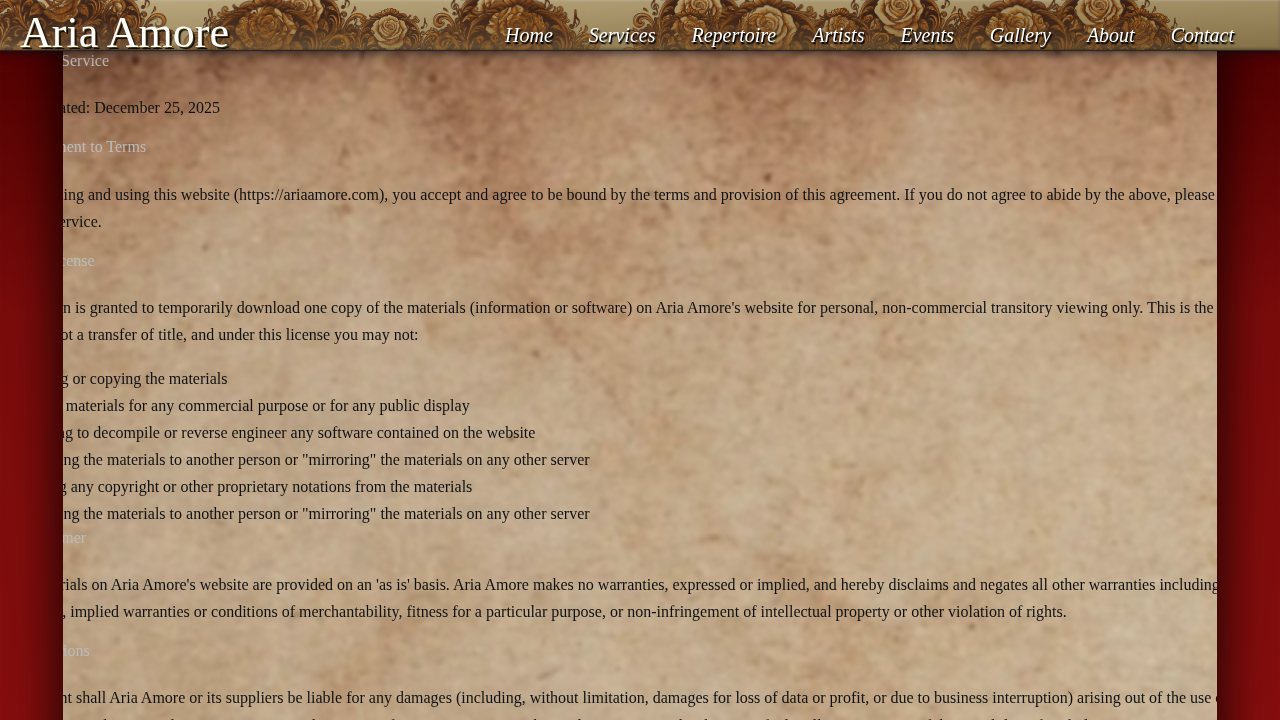
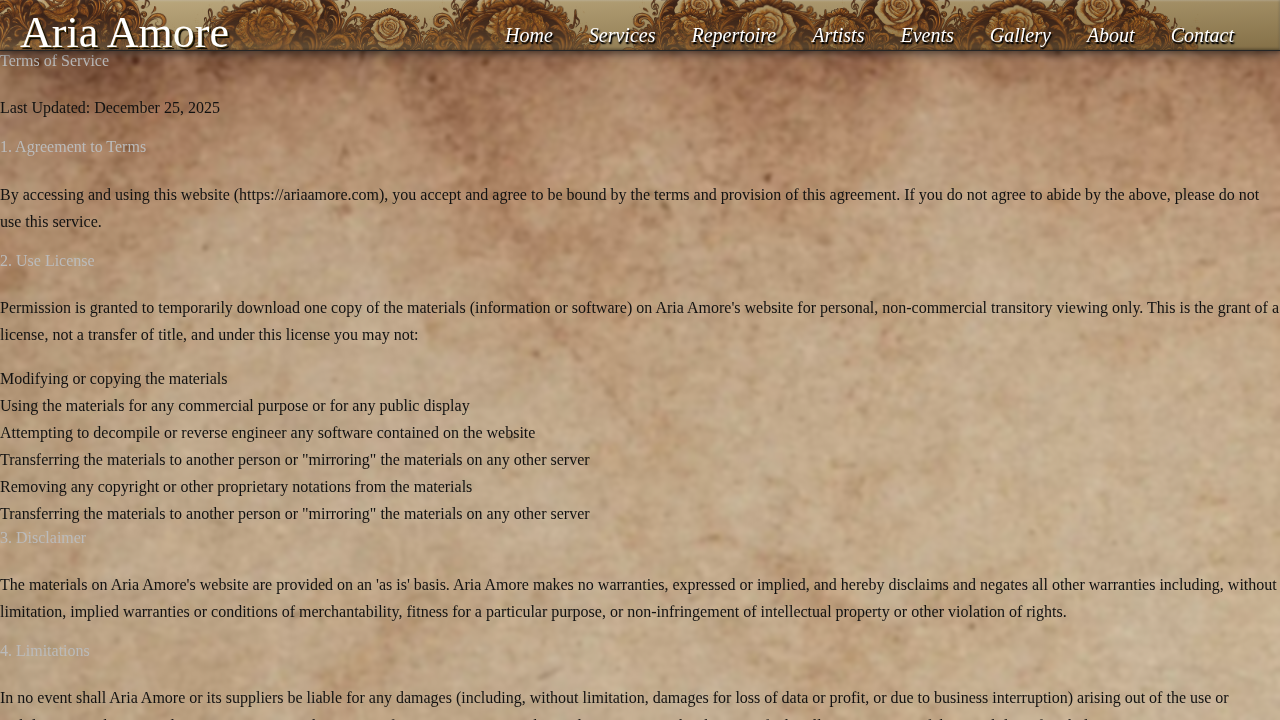
Fix screenshots to show pages after curtain animation completes
- Created automated screenshot capture script using Playwright
- Script waits 3 seconds for curtain animation to complete
- Captured all 11 main pages + 2 homepage sections (13 total)
- Updated all screenshot files to show full page content
- Updated documentation with curtain animation timing details
- Added npm script for easy screenshot capture
- Removed duplicate 05-contact-page.png file

Changed region(s): [[0.9375, 0.0611, 1.0, 1.0], [0.0, 0.0611, 0.0625, 1.0]]

diff --git a/scripts/capture-screenshots.js b/scripts/capture-screenshots.js
@@ -1,0 +1,173 @@
+#!/usr/bin/env node
+
+/**
+ * Screenshot Capture Script
+ * 
+ * Captures screenshots of all pages after curtain animation completes.
+ * 
+ * Usage:
+ *   node scripts/capture-screenshots.js [server-url]
+ * 
+ * Example:
+ *   node scripts/capture-screenshots.js http://localhost:8000
+ */
+
+const { chromium } = require('playwright');
+const path = require('path');
+const fs = require('fs');
+
+// Configuration
+const SERVER_URL = process.argv[2] || 'http://localhost:8000';
+const SCREENSHOT_DIR = path.join(__dirname, '../docs/screenshots');
+const VIEWPORT = { width: 1280, height: 720 };
+
+// Pages to screenshot
+const PAGES = [
+  { url: '/index.html', filename: '01-homepage-hero.png', description: 'Homepage Hero', scrollY: 0 },
+  { url: '/index.html', filename: '01-homepage-packages.png', description: 'Homepage Packages Section', scrollY: 800 },
+  { url: '/about.html', filename: '02-about-page.png', description: 'About Page' },
+  { url: '/services.html', filename: '03-services-page.png', description: 'Services Page' },
+  { url: '/artists.html', filename: '04-artists-page.png', description: 'Artists Page' },
+  { url: '/repertoire.html', filename: '05-repertoire-page.png', description: 'Repertoire Page' },
+  { url: '/events.html', filename: '06-events-page.png', description: 'Events Page' },
+  { url: '/gallery.html', filename: '07-gallery-page.png', description: 'Gallery Page' },
+  { url: '/contact.html', filename: '08-contact-page.png', description: 'Contact Page' },
+  { url: '/privacy-policy.html', filename: '09-privacy-policy-page.png', description: 'Privacy Policy' },
+  { url: '/terms-of-service.html', filename: '10-terms-of-service-page.png', description: 'Terms of Service' }
+];
+
+// Homepage sections for sections/ subfolder
+const HOMEPAGE_SECTIONS = [
+  { filename: 'sections/homepage-section-1-hero.png', description: 'Homepage Section 1 - Hero', scrollY: 0 },
+  { filename: 'sections/homepage-section-2-packages.png', description: 'Homepage Section 2 - Packages', scrollY: 800 }
+];
+
+async function captureScreenshots() {
+  console.log('📸 Aria Amore Screenshot Capture');
+  console.log('================================\n');
+  console.log(`Server URL: ${SERVER_URL}`);
+  console.log(`Viewport: ${VIEWPORT.width}x${VIEWPORT.height}`);
+  console.log(`Output Directory: ${SCREENSHOT_DIR}\n`);
+
+  // Ensure screenshot directories exist
+  if (!fs.existsSync(SCREENSHOT_DIR)) {
+    console.log(`Creating screenshot directory: ${SCREENSHOT_DIR}`);
+    fs.mkdirSync(SCREENSHOT_DIR, { recursive: true });
+  }
+  
+  const sectionsDir = path.join(SCREENSHOT_DIR, 'sections');
+  if (!fs.existsSync(sectionsDir)) {
+    console.log(`Creating sections directory: ${sectionsDir}`);
+    fs.mkdirSync(sectionsDir, { recursive: true });
+  }
+
+  // Launch browser
+  console.log('→ Launching browser...');
+  const browser = await chromium.launch({
+    headless: true
+  });
+
+  try {
+    const context = await browser.newContext({
+      viewport: VIEWPORT,
+      deviceScaleFactor: 1
+    });
+
+    const page = await context.newPage();
+
+    // Helper function to capture a screenshot with optional scroll
+    async function capturePageScreenshot(url, outputPath, description, scrollY = 0) {
+      console.log(`   URL: ${url}`);
+      if (scrollY > 0) {
+        console.log(`   📜 Scroll position: ${scrollY}px`);
+      }
+
+      try {
+        // Navigate to page
+        await page.goto(url, { 
+          waitUntil: 'networkidle',
+          timeout: 30000
+        });
+
+        // CRITICAL: Wait for curtain animation to complete
+        console.log('   ⏳ Waiting for curtain animation to complete (3 seconds)...');
+        await page.waitForTimeout(3000);
+
+        // Additional check: ensure curtain wrapper has 'open' class
+        await page.waitForSelector('.curtain-wrapper.open', { 
+          timeout: 5000,
+          state: 'attached'
+        }).catch(() => {
+          console.log('   ⚠  Curtain wrapper not found or not opened (may not have curtain animation)');
+        });
+
+        // Scroll if needed
+        if (scrollY > 0) {
+          await page.evaluate((y) => window.scrollTo(0, y), scrollY);
+          await page.waitForTimeout(500); // Wait for scroll to complete
+        }
+
+        // Take screenshot
+        console.log('   📷 Capturing screenshot...');
+        await page.screenshot({
+          path: outputPath,
+          type: 'png',
+          fullPage: false  // Viewport only for consistency
+        });
+
+        console.log(`   ✓ Saved: ${path.basename(outputPath)}`);
+        return true;
+
+      } catch (error) {
+        console.error(`   ❌ Error capturing ${description}:`, error.message);
+        return false;
+      }
+    }
+
+    // Capture main pages
+    for (let i = 0; i < PAGES.length; i++) {
+      const pageInfo = PAGES[i];
+      const url = `${SERVER_URL}${pageInfo.url}`;
+      const outputPath = path.join(SCREENSHOT_DIR, pageInfo.filename);
+
+      console.log(`\n[${i + 1}/${PAGES.length}] ${pageInfo.description}`);
+      await capturePageScreenshot(url, outputPath, pageInfo.description, pageInfo.scrollY || 0);
+    }
+
+    // Capture homepage sections
+    console.log('\n\n=== Homepage Sections ===\n');
+    for (let i = 0; i < HOMEPAGE_SECTIONS.length; i++) {
+      const sectionInfo = HOMEPAGE_SECTIONS[i];
+      const url = `${SERVER_URL}/index.html`;
+      const outputPath = path.join(SCREENSHOT_DIR, sectionInfo.filename);
+
+      console.log(`\n[Section ${i + 1}/${HOMEPAGE_SECTIONS.length}] ${sectionInfo.description}`);
+      await capturePageScreenshot(url, outputPath, sectionInfo.description, sectionInfo.scrollY);
+    }
+
+    await context.close();
+
+  } catch (error) {
+    console.error('\n❌ Fatal error:', error);
+    process.exit(1);
+  } finally {
+    await browser.close();
+  }
+
+  console.log('\n================================');
+  console.log('✅ Screenshot capture complete!');
+  console.log(`\nScreenshots saved to: ${SCREENSHOT_DIR}`);
+  console.log(`Main pages: ${PAGES.length}`);
+  console.log(`Homepage sections: ${HOMEPAGE_SECTIONS.length}`);
+  console.log(`Total: ${PAGES.length + HOMEPAGE_SECTIONS.length} screenshots\n`);
+}
+
+// Main execution
+(async () => {
+  try {
+    await captureScreenshots();
+  } catch (error) {
+    console.error('Error:', error);
+    process.exit(1);
+  }
+})();

diff --git a/docs/screenshots/README.md b/docs/screenshots/README.md
@@ -1,10 +1,16 @@
 # Aria Amore Website Screenshots
 
-This directory contains comprehensive screenshots of all pages in the Aria Amore website. Each screenshot captures the viewport to ensure proper rendering of backgrounds, styles, and all visual elements.
+This directory contains comprehensive screenshots of all pages in the Aria Amore website. Each screenshot is captured **after the curtain opening animation completes** to ensure all page content and features are fully visible.
 
 ## Screenshot Approach
 
-Due to full-page screenshot limitations with complex backgrounds and styles, these screenshots use viewport captures that show the actual rendered appearance of each page as users would see it.
+**Important:** Screenshots are taken 3 seconds after page load to allow the curtain opening animation to complete (animation duration: 2 seconds). This ensures that:
+- All page content is fully visible
+- No red curtain overlay obscures the page
+- All major features are properly showcased
+- Users see the actual rendered page as intended
+
+Due to full-page screenshot limitations with complex backgrounds and styles, these screenshots use viewport captures (1280x720) that show the actual rendered appearance of each page as users would see it.
 
 ## Main Pages
 
@@ -15,7 +21,8 @@ Due to full-page screenshot limitations with complex backgrounds and styles, the
   - ![Homepage Hero](https://github.com/user-attachments/assets/9715a2b3-45b4-41ca-a9ad-9d28950d2774)
 
 - **01-homepage-packages.png** - Package comparison section
-  - Shows: Same hero view (viewport capture)
+  - Shows: Packages section (scrolled 800px down from hero)
+  - Features: Service package options and booking information
   - ![Homepage Packages](https://github.com/user-attachments/assets/c6a7cd35-d91b-4b78-ad6c-03e5e86b705b)
 
 ### 2. About Page (about.html)
@@ -77,9 +84,10 @@ The following pages were intentionally **not** screenshotted per requirements:
 ## Screenshot Details
 
 - **Format**: PNG
-- **Capture Method**: Viewport screenshots (not full-page) to ensure proper background rendering
+- **Capture Method**: Viewport screenshots (1280x720) taken **after curtain animation completes**
 - **Browser**: Chromium (via Playwright)
-- **Viewport Size**: Default desktop viewport (1280x720)
+- **Viewport Size**: 1280x720 (standard desktop viewport)
+- **Animation Wait**: 3 seconds after page load to ensure curtain has fully opened
 - **Date Captured**: January 29, 2026
 
 ## Technical Notes
@@ -109,26 +117,39 @@ These screenshots can be used for:
 
 ## Updating Screenshots
 
-### ⚠ IMPORTANT: Server Must Be Running
+### Automated Script (Recommended)
 
-Screenshots will **only render correctly** if the PHP development server is running. The site uses symlinks (`public/assets -> ../assets`) which require an active server to resolve.
-
-### Quick Start (Recommended)
+Use the Node.js script with Playwright to automatically capture all screenshots after curtain animation:
 
 ```bash
-# Use the screenshot capture script (handles server automatically)
-./scripts/capture-screenshots.sh
+# 1. Start the PHP development server
+cd /home/runner/work/Aria-Amore-Website-Core/Aria-Amore-Website-Core
+php -S localhost:8000 -t public &
+
+# 2. Run the screenshot capture script
+node scripts/capture-screenshots.js http://localhost:8000
+
+# The script will:
+# - Wait for curtain animation to complete (3 seconds)
+# - Capture all main pages
+# - Capture homepage sections with different scroll positions
+# - Save screenshots to docs/screenshots/
 ```
 
-This script will:
-1. Check if server is running (or start it)
-2. Verify assets are accessible
-3. Keep server alive during screenshot capture
-4. Display instructions for capturing screenshots
+### Script Features
 
-### Manual Process
+The automated script (`scripts/capture-screenshots.js`):
+- ✅ Waits 3 seconds for curtain animation to complete
+- ✅ Captures screenshots with curtain fully opened
+- ✅ Handles scrolling for homepage sections
+- ✅ Creates sections/ subfolder automatically
+- ✅ Uses consistent viewport (1280x720)
+- ✅ Provides progress feedback
+- ✅ Captures all 13 screenshots automatically
 
-If you prefer to start the server manually:
+### Manual Process (Alternative)
+
+If you need to capture screenshots manually:
 
 ```bash
 # 1. Start the PHP development server
@@ -137,12 +158,14 @@ php -S localhost:8000 -t public
 
 # 2. Keep server running in background or separate terminal
 
-# 3. Use Playwright to capture screenshots
+# 3. Use Playwright or browser DevTools to capture screenshots
 # - Navigate to http://localhost:8000/[page].html
-# - Wait 2-3 seconds for full page load
+# - **IMPORTANT:** Wait 3+ seconds for curtain animation to complete
 # - Take viewport screenshot (NOT full-page)
 # - Save to docs/screenshots/
 ```
+
+**Critical:** Always wait at least 3 seconds after page load before taking screenshots to ensure the curtain opening animation has completed.
 
 ### Why Server is Required
 
@@ -157,6 +180,13 @@ HTML files use absolute paths (`/assets/css/styles.css`) which:
 - ✅ Resolve properly in production build (symlinks copied as real files)
 
 ### Troubleshooting
+
+**Problem: Screenshot shows red curtain overlay**
+- **Cause:** Screenshot taken before curtain animation completed
+- **Solution:** 
+  1. Wait 3+ seconds after page load
+  2. Use the automated script which handles timing automatically
+  3. Verify curtain has `.open` class in browser DevTools
 
 **Problem: Screenshot shows only background, no content**
 - **Cause:** Server not running or assets not loading
@@ -175,4 +205,6 @@ HTML files use absolute paths (`/assets/css/styles.css`) which:
 ---
 
 **Last Updated**: January 29, 2026  
-**Total Screenshots**: 11 main pages + 2 homepage sections = 13 total
+**Total Screenshots**: 11 main pages + 2 homepage sections = 13 total  
+**Capture Method**: Automated with Playwright (waits for curtain animation)  
+**Animation Handling**: 3-second wait ensures curtain is fully opened
